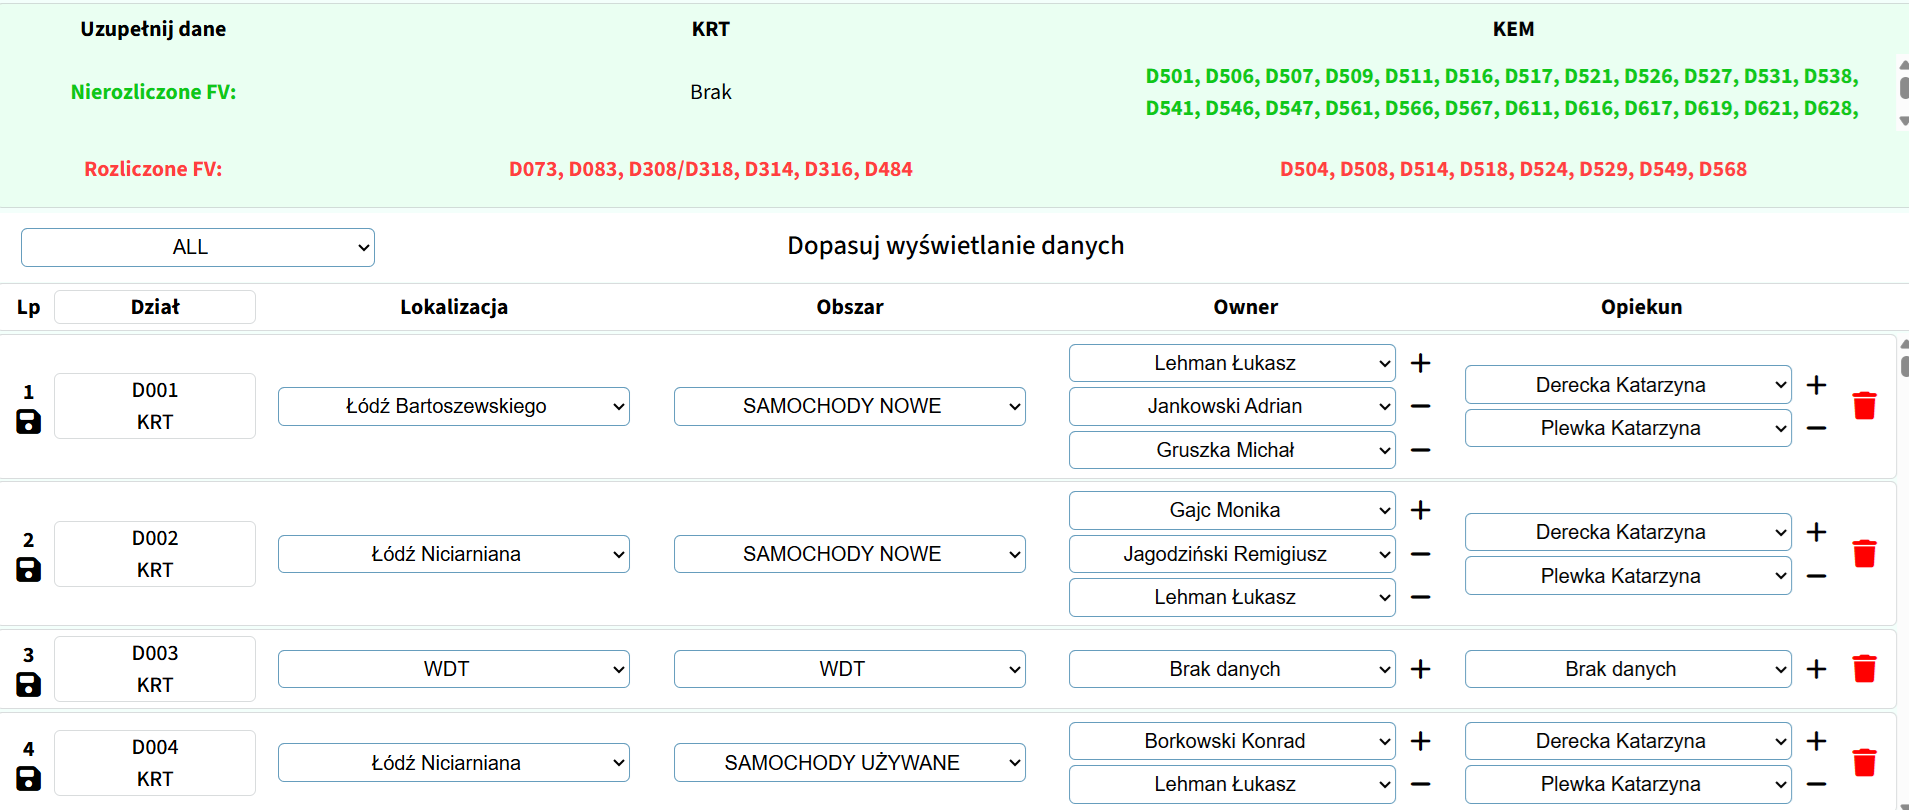
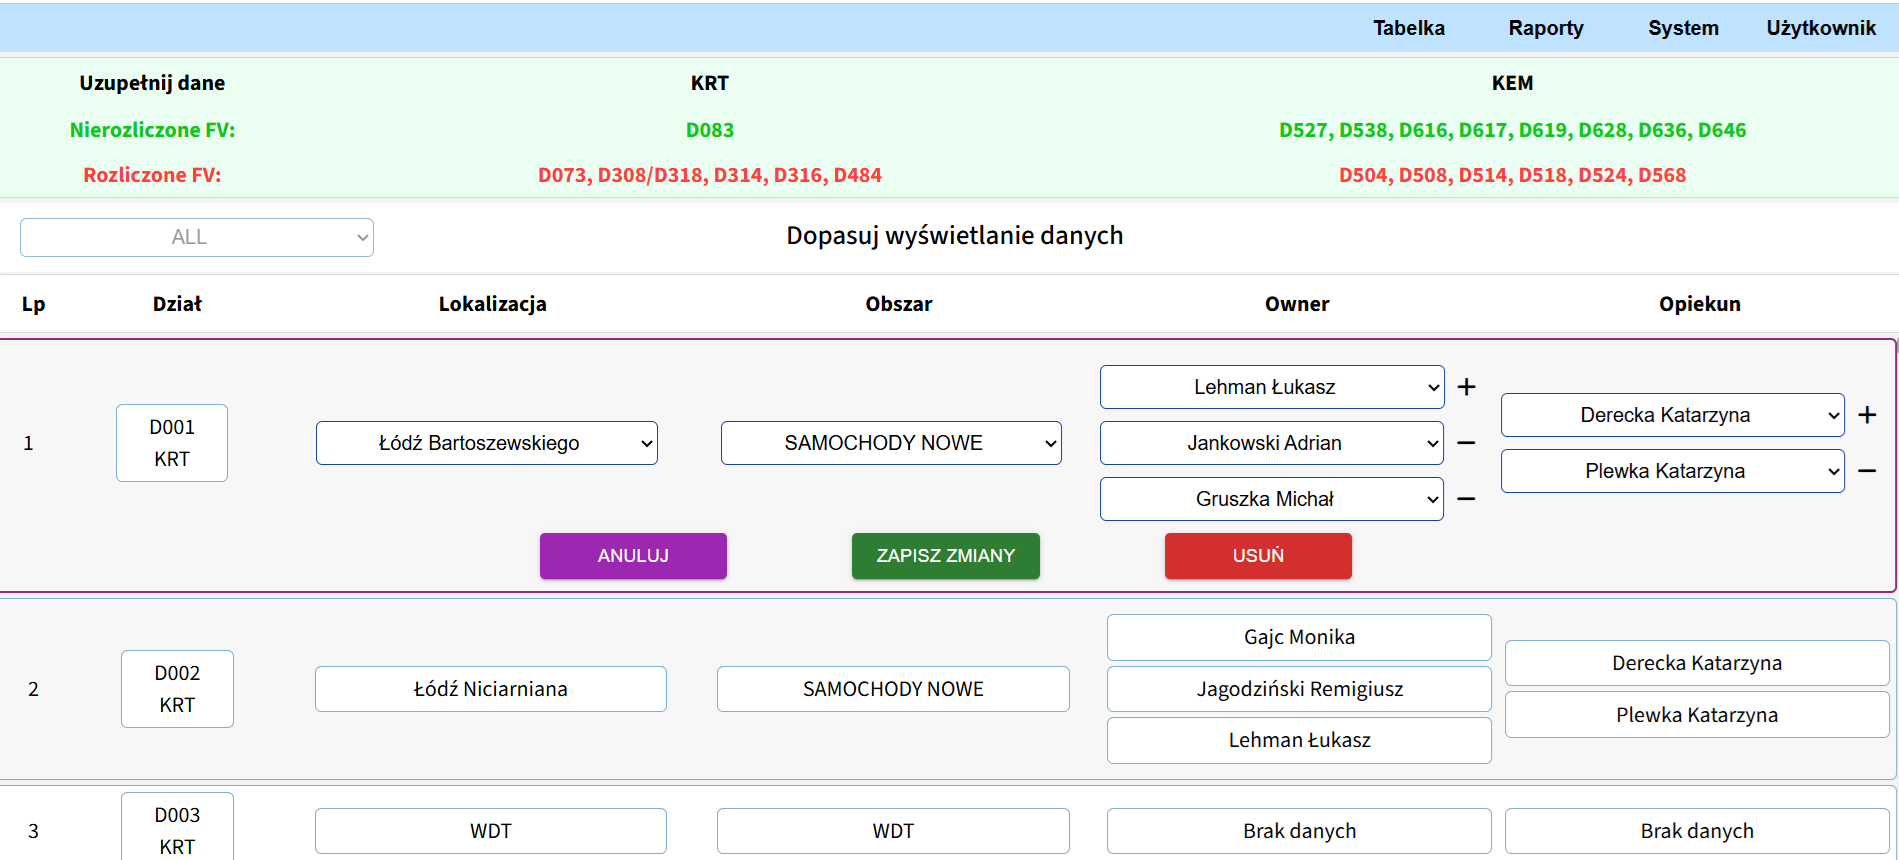
drobne poprwki w DeptMapperEdit, nie był przekazywany cały obiekt do zapisu do bazy a tylko jeden klucz

diff --git a/src/components/instruction/Instruction.js b/src/components/instruction/Instruction.js
@@ -94,8 +94,8 @@ const menuStructure = [
                 category: "Ustawienia",
                 items: [
                     { id: 22, name: "Tabela - kolumny" },
-                    { id: 23, name: "Zmień stałe" },
-                    { id: 24, name: "Dopasuj dane" },
+                    { id: 23, name: "Dane struktury organizacji" },
+                    { id: 24, name: "Zmiana struktury organizacji" },
                 ],
             },
         ],

diff --git a/src/components/system_settings/DeptMapperEdit.js b/src/components/system_settings/DeptMapperEdit.js
@@ -259,7 +259,7 @@ const DeptMapperEdit = ({ id, data, localization, area, owner, guardian, setEdit
                     variant="contained"
                     color="success"
                     disabled={!activ}
-                    onClick={() => handleSaveToDB(editData.department, editData.company)}
+                    onClick={() => handleSaveToDB(editData)}
                 >
                     Zapisz zmiany
                 </Button>

diff --git a/src/components/system_settings/DeptMapper.js b/src/components/system_settings/DeptMapper.js
@@ -185,7 +185,6 @@ const DeptMapper = () => {
         uniqueDepFromCompanyJI: updateDep // ← tu podstawiasz swoją nową wartość
       }));
 
-
       await axiosPrivateIntercept.patch("/items/save-prepared-items", {
         itemData
       });
@@ -200,7 +199,6 @@ const DeptMapper = () => {
       company: ""
     });
 
-    console.log(dep, comp);
     try {
 
 
